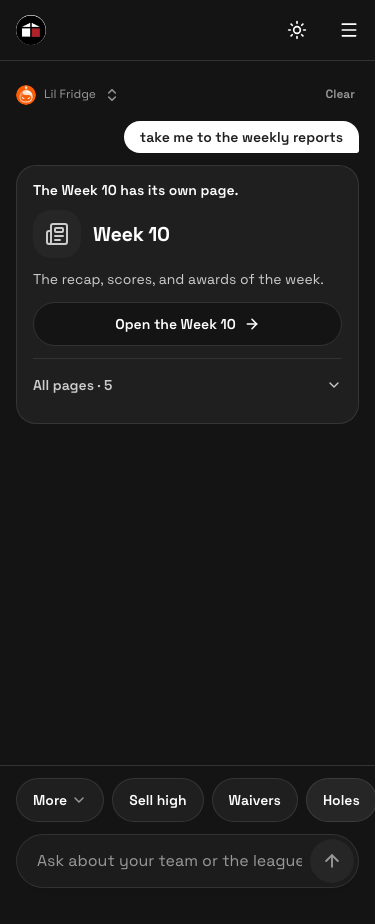
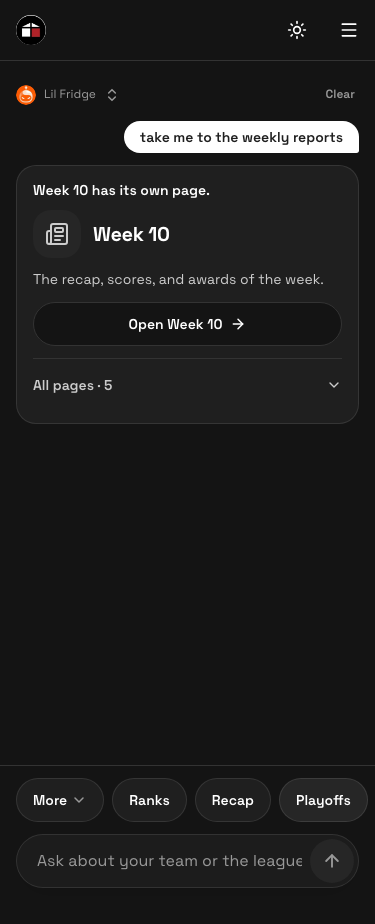
Record the evidence of site-answer AT-5 and AT-14 again

diff --git a/.scratch/site-answer/EVIDENCE.md b/.scratch/site-answer/EVIDENCE.md
@@ -1,8 +1,8 @@
 # Site answer: evidence
 
 Spec: `.scratch/site-answer/PRD.md`. Acceptance tests: `.scratch/site-answer/ACCEPTANCE.md`.
-Built from: `cee7caf1`, on 2026-11-18. The agent gives no Test verdict. The Judge gives one for each test in `VERDICTS.md`.
-Round time: 12 min for 13 site tests. The round output is `evidence/round.txt`. The norcal build of the first round stopped on a Next.js security notice, so AT-13 ran again alone.
+Built from: `9b603d8a`, on 2026-11-18. The agent gives no Test verdict. The Judge gives one for each test in `VERDICTS.md`.
+Round time: 12 min for 13 site tests. The round output is `evidence/round.txt`. The norcal build of the first round stopped on a Next.js security notice, so AT-13 ran again alone. AT-5 and AT-14 ran again from `9b603d8a` in a second round of 2 min; its output is `evidence/round-2.txt`.
 The local API ran with `make -C apps/api api-evidence` and called the live Jev. The files that no runner verb covers come from a Playwright script; see `evidence/extra-evidence-script.txt` and the `steps.txt` of each test.
 
 ## AT-1: "where is the trade analyzer" gets the card of the Trade Analyzer
@@ -38,7 +38,7 @@ Observation: Each shot shows the card of the Playoff Sim with "Plays out the res
 App: both
 Then: The page card of Week 10 shows, and its button links to the Week 10 link of the Menu.
 Files: `evidence/AT-5/1280-dark.png`, `evidence/AT-5/1280-light.png`, `evidence/AT-5/375-dark.png`, `evidence/AT-5/375-light.png`, `evidence/AT-5/768-dark.png`, `evidence/AT-5/768-light.png`, `evidence/AT-5/ask-response.json`, `evidence/AT-5/menu-links.txt`, `evidence/AT-5/steps.json`, `evidence/AT-5/steps.txt`
-Observation: Each shot shows the card of Week 10 with the lead "The Week 10 has its own page." and the button "Open the Week 10". `ask-response.json` holds `route: "site"`, `page: "week"`, and the button href `/2026/week-10/`, the href of the Menu item Week 10 in `menu-links.txt`.
+Observation: Each shot shows the card of Week 10 with the lead "Week 10 has its own page." and the button "Open Week 10". `ask-response.json` holds `route: "site"`, `page: "week"`, and the button href `/2026/week-10/`, the href of the Menu item Week 10 in `menu-links.txt`.
 
 ## AT-6: A bare page name gets its card
 
@@ -99,9 +99,9 @@ Observation: Each shot of the NorCal build shows the list view with Tools Trade 
 ## AT-14: The Tool tone marks only a Tool
 
 App: site
-Then: Each Tool tile, Tool icon box, and "Open" button of a Tool has a red tint. Each page to read, and the "Open" button of a page to read, has the plain card surface. No fill is solid white in dark, and no fill is solid black in light.
+Then: In light, each Tool tile, Tool icon box, and "Open" button of a Tool has a red tint. In dark, each Tool tile is the raised surface with a rule, and each Tool icon box and "Open" button of a Tool has a red tint (PRD item 19). Each page to read, and the "Open" button of a page to read, has a plain surface with no red tint. No fill is solid white in dark, and no fill is solid black in light.
 Files: `evidence/AT-14/1280-dark.png`, `evidence/AT-14/1280-light.png`, `evidence/AT-14/375-dark.png`, `evidence/AT-14/375-light.png`, `evidence/AT-14/768-dark.png`, `evidence/AT-14/768-light.png`, `evidence/AT-14/computed-backgrounds.json`, `evidence/AT-14/computed-backgrounds.txt`, `evidence/AT-14/measured-1280-dark.png`, `evidence/AT-14/measured-1280-light.png`, `evidence/AT-14/steps.json`, `evidence/AT-14/steps.txt`
-Observation: `computed-backgrounds.txt` shows, in light: Tool tiles `rgb(248, 235, 234)`, Tool icon boxes and the Tool "Open" button `rgb(241, 214, 212)`, read tiles `rgb(255, 255, 255)`, read icon boxes `rgb(235, 235, 235)`, and the "Open the Managers" button `rgb(244, 244, 244)` on the card surface `rgb(255, 255, 255)`. In dark: Tool tiles `rgb(38, 38, 38)`, the same fill as the read icon boxes, with no red in the tile fill; Tool icon boxes and the Tool "Open" button `rgb(73, 41, 39)`; read tiles `rgb(31, 31, 31)`; and the "Open the Managers" button `rgb(20, 20, 20)` on the card surface `rgb(31, 31, 31)`. No fill in dark is `rgb(255, 255, 255)` and no fill in light is `rgb(0, 0, 0)`; the runner shots at 768 px show the Thread scroll stitched, so the `measured-1280-*` shots show the whole Thread.
+Observation: `computed-backgrounds.txt` shows, in light: Tool tiles `rgb(248, 235, 234)`, Tool icon boxes and the "Open the Trade Analyzer" button `rgb(241, 214, 212)`, on the card `rgb(255, 255, 255)`. Read tiles are `rgb(255, 255, 255)` with a `1px solid rgb(224, 224, 224)` border, read icon boxes `rgb(235, 235, 235)`, and the "Open the Managers" button `rgb(244, 244, 244)`, the page fill. In dark: Tool tiles `rgb(38, 38, 38)`, the value of `--color-raised`, with a `1px solid rgb(51, 51, 51)` border, the value of `--color-rule`; Tool icon boxes and the Tool "Open" button `rgb(73, 41, 39)`. Read tiles are `rgb(31, 31, 31)`, read icon boxes `rgb(38, 38, 38)`, and the "Open the Managers" button `rgb(20, 20, 20)` on the card `rgb(31, 31, 31)`. No fill in dark is `rgb(255, 255, 255)` and no fill in light is `rgb(0, 0, 0)`; the `measured-1280-*` shots show the whole Thread that was measured.
 
 ## AT-15: Each tap target is at least 44 px tall
 
